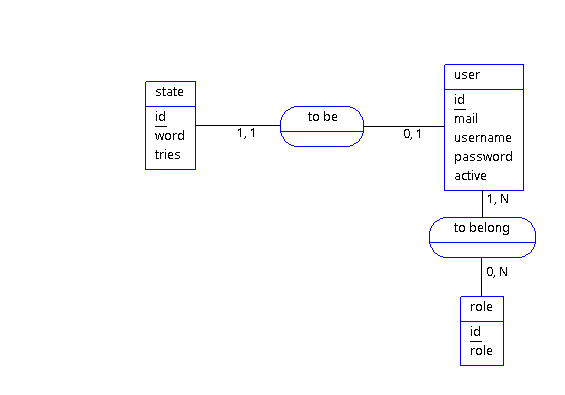
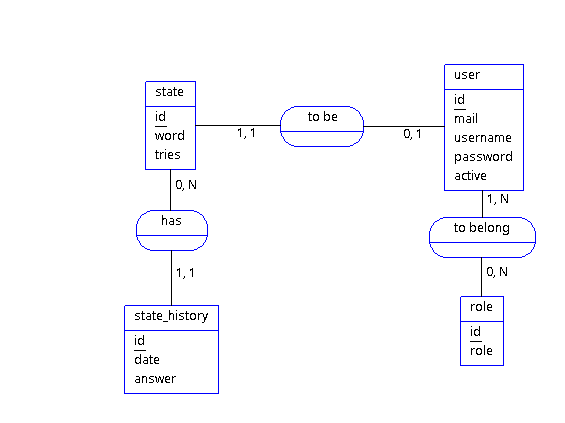
Entities + rest client setup + endpoint de test

diff --git a/tomus-game/src/main/java/entity/User.java b/tomus-game/src/main/java/entity/User.java
@@ -1,16 +1,21 @@
 package entity;
 
+import java.util.Set;
 import java.util.UUID;
 
 import javax.persistence.Entity;
 import javax.persistence.Id;
+import javax.persistence.JoinColumn;
+import javax.persistence.JoinTable;
+import javax.persistence.ManyToMany;
+import javax.persistence.OneToOne;
 import javax.persistence.Table;
 
-import io.quarkus.hibernate.orm.panache.PanacheEntity;
+import io.quarkus.hibernate.orm.panache.PanacheEntityBase;
 
 @Entity
 @Table(name = "users")
-public class User extends PanacheEntity {
+public class User extends PanacheEntityBase {
 
     @Id
     public UUID id;
@@ -18,5 +23,9 @@ public class User extends PanacheEntity {
     public String username;
     public String password;
     public boolean active;
+    @OneToOne
     public State state;
+    @ManyToMany
+    @JoinTable(name = "users_roles", joinColumns = @JoinColumn(name = "user_id"), inverseJoinColumns = @JoinColumn(name = "role_id"))
+    public Set<Role> roles;
 }

diff --git a/tomus-game/src/main/java/service/WordService.java b/tomus-game/src/main/java/service/WordService.java
@@ -1,0 +1,26 @@
+package service;
+
+import javax.enterprise.inject.Produces;
+import javax.ws.rs.GET;
+import javax.ws.rs.Path;
+import javax.ws.rs.PathParam;
+import javax.ws.rs.core.MediaType;
+
+import org.eclipse.microprofile.rest.client.inject.RegisterRestClient;
+
+/**
+ * cette interface décrit un client REST qui enverra des requêtes
+ * vers un autre microservice.
+ * Elle nécéssite d'être configurée dans application.properties pour définir
+ * l'url de l'api cible
+ * Ici, les @Path définissent la route de la ressource de destination
+ */
+@Path("/words")
+@RegisterRestClient(configKey = "words-api")
+public interface WordService {
+
+    @GET
+    @Path("/{nbOfLetters}/rnd")
+    @Produces(MediaType.TEXT_PLAIN)
+    public String getRandomWord(@PathParam("nbOfLetters") int nbOfLetters);
+}

diff --git a/tomus-game/src/main/java/entity/StateHistory.java b/tomus-game/src/main/java/entity/StateHistory.java
@@ -5,17 +5,21 @@ import java.sql.Timestamp;
 import javax.persistence.Entity;
 import javax.persistence.GeneratedValue;
 import javax.persistence.Id;
+import javax.persistence.OneToOne;
 import javax.persistence.SequenceGenerator;
 import javax.persistence.Table;
 
+import io.quarkus.hibernate.orm.panache.PanacheEntityBase;
+
 @Entity
 @Table(name = "states_history")
-public class StateHistory {
+public class StateHistory extends PanacheEntityBase {
     @Id
     @SequenceGenerator(name = "stateHistorySeq", sequenceName = "stateHistory_id_seq", allocationSize = 1, initialValue = 1)
     @GeneratedValue(generator = "stateHistorySeq")
     public Long id;
     public Timestamp date;
     public String answer;
+    @OneToOne
     public State state;
 }

diff --git a/tomus-game/src/main/java/controller/StateController.java b/tomus-game/src/main/java/controller/StateController.java
@@ -1,0 +1,31 @@
+package controller;
+
+import java.util.HashMap;
+import java.util.Map;
+
+import javax.inject.Inject;
+import javax.ws.rs.GET;
+import javax.ws.rs.Path;
+import javax.ws.rs.PathParam;
+import javax.ws.rs.core.Response;
+
+import service.StateService;
+
+@Path("/state")
+public class StateController {
+
+    @Inject
+    StateService stateService;
+
+    /**
+     * Endpoint de test
+     * 
+     * @param nbLetters
+     * @return
+     */
+    @GET
+    @Path("/word/{nbLetters}")
+    public Response getRandomWord(@PathParam("nbLetters") int nbLetters) {
+        return Response.ok(Map.of("word", stateService.getRandomWord(nbLetters))).build();
+    }
+}

diff --git a/tomus-game/src/main/java/entity/Role.java b/tomus-game/src/main/java/entity/Role.java
@@ -1,15 +1,16 @@
 package entity;
 
-import javax.annotation.Generated;
 import javax.persistence.Entity;
 import javax.persistence.GeneratedValue;
 import javax.persistence.Id;
 import javax.persistence.SequenceGenerator;
 import javax.persistence.Table;
 
+import io.quarkus.hibernate.orm.panache.PanacheEntityBase;
+
 @Entity
 @Table(name = "roles")
-public class Role {
+public class Role extends PanacheEntityBase {
     @Id
     @SequenceGenerator(name = "roleSeq", sequenceName = "role_id_seq", allocationSize = 1, initialValue = 1)
     @GeneratedValue(generator = "roleSeq")

diff --git a/tomus-game/src/main/java/entity/State.java b/tomus-game/src/main/java/entity/State.java
@@ -4,14 +4,18 @@ import java.util.UUID;
 
 import javax.persistence.Entity;
 import javax.persistence.Id;
+import javax.persistence.OneToOne;
 import javax.persistence.Table;
+
+import io.quarkus.hibernate.orm.panache.PanacheEntityBase;
 
 @Entity
 @Table(name = "states")
-public class State {
+public class State extends PanacheEntityBase {
     @Id
     public UUID id;
     public String word;
     public Integer tries;
+    @OneToOne
     public User user;
 }

diff --git a/tomus-game/src/main/java/service/StateService.java b/tomus-game/src/main/java/service/StateService.java
@@ -1,0 +1,19 @@
+package service;
+
+import javax.inject.Singleton;
+
+import org.eclipse.microprofile.rest.client.inject.RestClient;
+
+import io.smallrye.common.annotation.Blocking;
+
+@Singleton
+public class StateService {
+
+    @RestClient
+    WordService wordService;
+
+    @Blocking
+    public String getRandomWord(int nbOfLetters) {
+        return wordService.getRandomWord(nbOfLetters);
+    }
+}

diff --git a/tomus-game/src/main/java/controller/UserController.java b/tomus-game/src/main/java/controller/UserController.java
@@ -1,0 +1,17 @@
+package controller;
+
+import javax.ws.rs.GET;
+import javax.ws.rs.Path;
+import javax.ws.rs.core.Response;
+
+import entity.User;
+
+@Path("/user")
+public class UserController {
+
+    @GET
+    @Path("/all")
+    public Response getAllUsers() {
+        return Response.ok(User.findAll()).build();
+    }
+}
